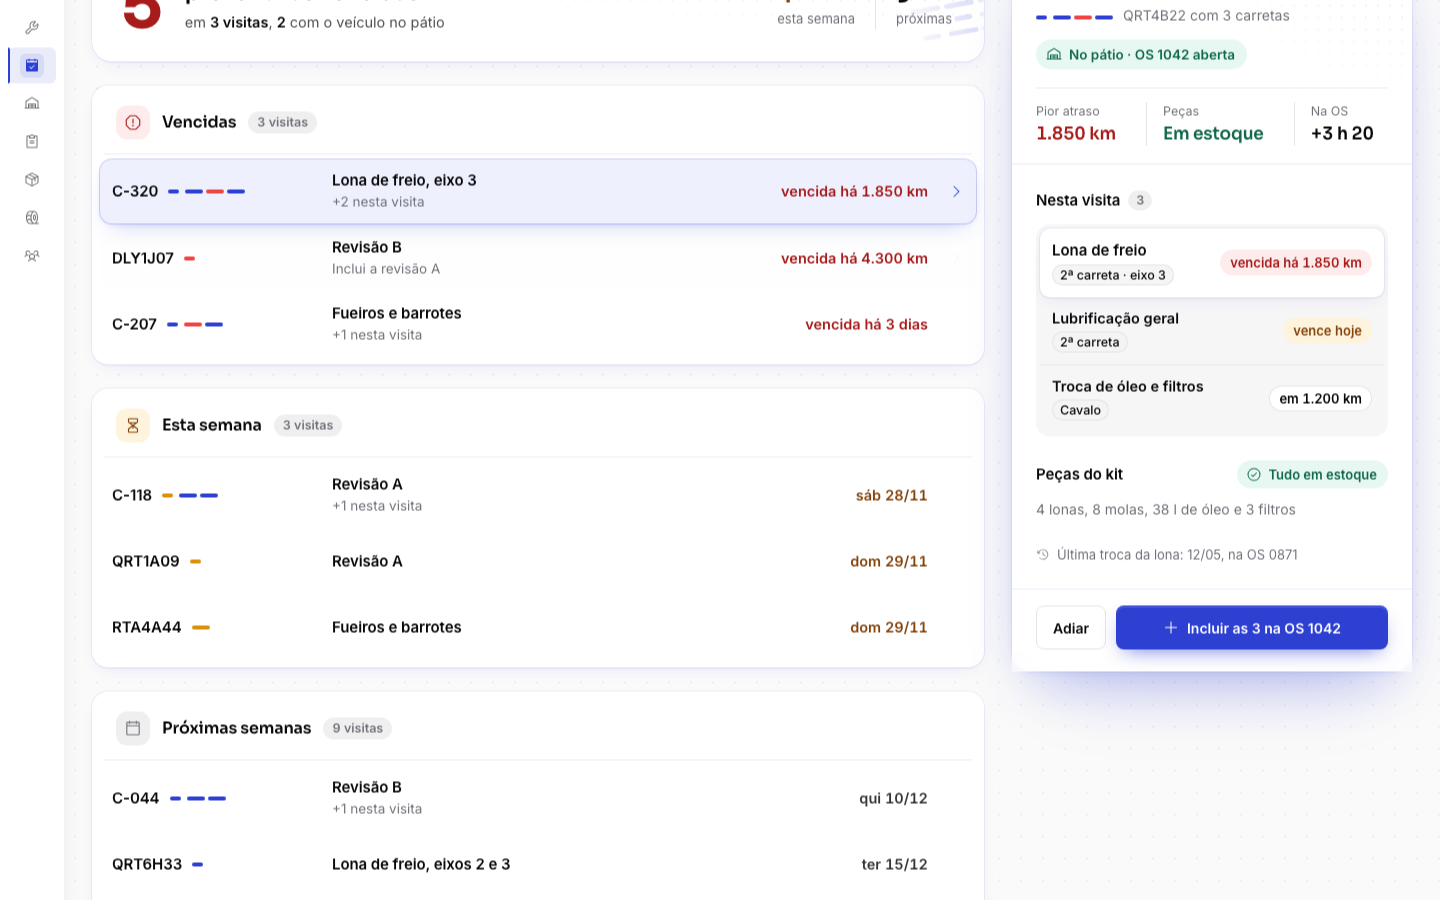
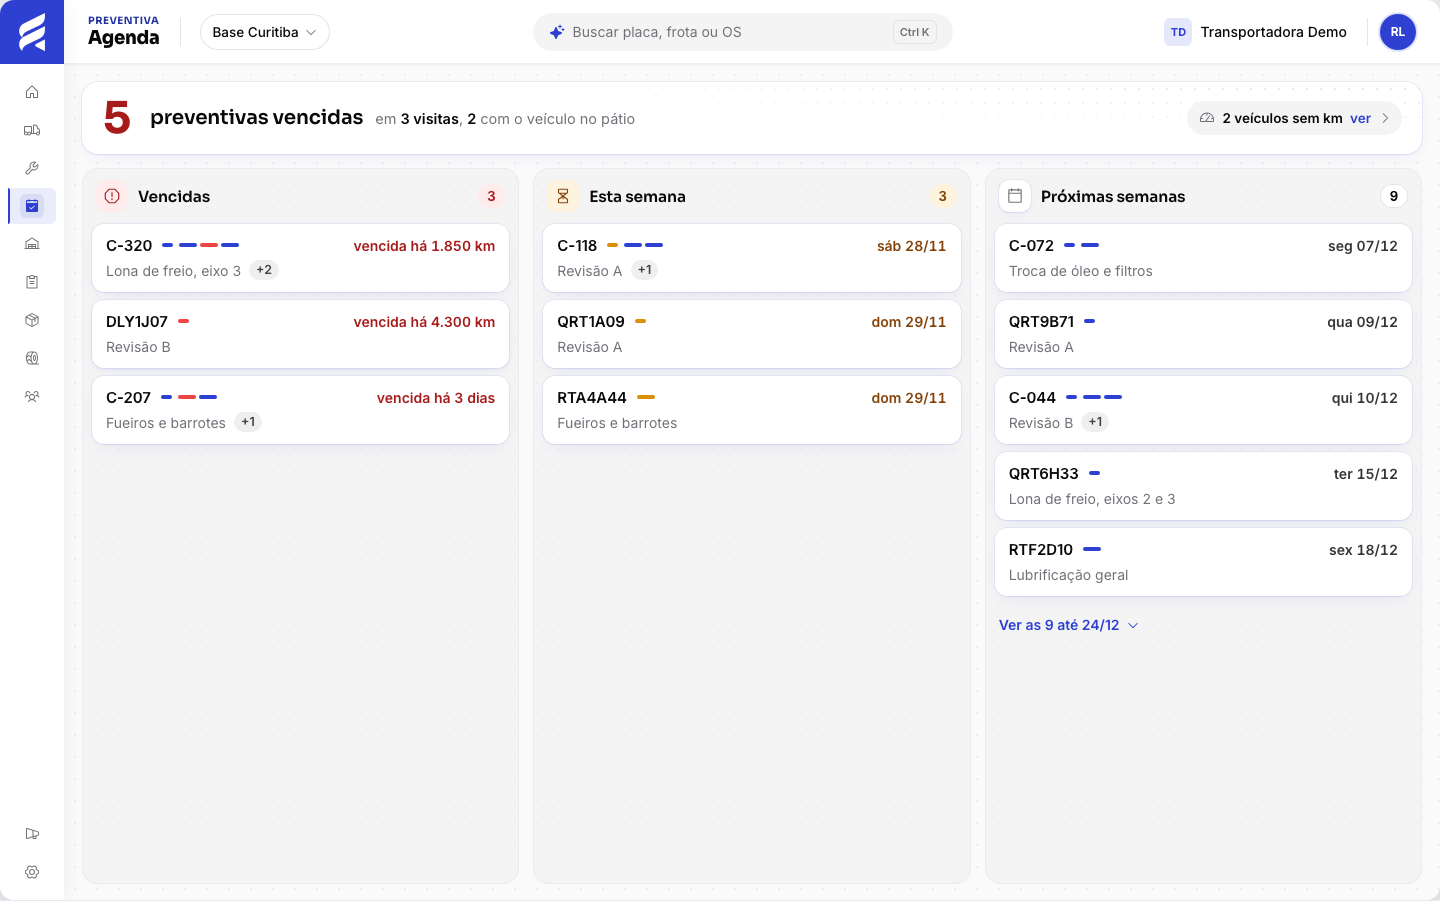
docs(truck): agenda as a three-column week board with the visit in a drawer

diff --git a/static/mockups/truck/preventiva-agenda/agenda.js b/static/mockups/truck/preventiva-agenda/agenda.js
@@ -17,6 +17,8 @@ const V={
   c118:{name:'C-118',parts:[['QRT7C10','cav','w'],['RTB2A41','car',''],['RTB2A42','car','']],svc:'Revisão A',more:'+1 nesta visita',when:'sáb 28/11',t:'w'},
   q1a:{name:'QRT1A09',parts:[['QRT1A09','cav','w']],svc:'Revisão A',more:'',when:'dom 29/11',t:'w'},
   rta:{name:'RTA4A44',parts:[['RTA4A44','car','w']],svc:'Fueiros e barrotes',more:'',when:'dom 29/11',t:'w'},
+  c072:{name:'C-072',parts:[['QRT5F80','cav',''],['RTG1H22','car','']],svc:'Troca de óleo e filtros',more:'',when:'seg 07/12',t:''},
+  q9b:{name:'QRT9B71',parts:[['QRT9B71','cav','']],svc:'Revisão A',more:'',when:'qua 09/12',t:''},
   c044:{name:'C-044',parts:[['QRT2E55','cav',''],['RTD8F12','car',''],['RTD8F13','car','']],svc:'Revisão B',more:'+1 nesta visita',when:'qui 10/12',t:''},
   q6h:{name:'QRT6H33',parts:[['QRT6H33','cav','']],svc:'Lona de freio, eixos 2 e 3',more:'',when:'ter 15/12',t:''},
   rtf:{name:'RTF2D10',parts:[['RTF2D10','car','']],svc:'Lubrificação geral',more:'',when:'sex 18/12',t:''},
@@ -26,7 +28,7 @@ const V={
 const GROUPS=[
   {k:'over',title:'Vencidas',count:'3 visitas',tone:'d',icon:'warning-octagon',ids:['c320','dly','c207']},
   {k:'week',title:'Esta semana',count:'3 visitas',tone:'w',icon:'hourglass-medium',ids:['c118','q1a','rta']},
-  {k:'next',title:'Próximas semanas',count:'9 visitas',tone:'',icon:'calendar-blank',ids:['c044','q6h','rtf'],more:'Ver as 9 visitas até 24/12'},
+  {k:'next',title:'Próximas semanas',count:'9 visitas',tone:'',icon:'calendar-blank',ids:['c072','q9b','c044','q6h','rtf'],more:'Ver as 9 até 24/12'},
   {k:'nokm',title:'Sem km',count:'2 veículos',tone:'',icon:'gauge',ids:['srt','rtc']},
 ];
 
@@ -79,26 +81,40 @@ function nextPanel(){return `<aside class="pnl">${pHead(C044,{status:pill('n','r
   ${parts(1,'38 l de óleo, 4 filtros e graxa')}</div>
   <div class="pf"><div class="bb">${btn('Adiar',{variant:'outline'})}${btn('Agendar visita',{icon:'calendar-check',action:1})}</div></div></aside>`;}
 
-/* ---------- notebook ---------- */
+/* ---------- board: the three columns side by side, the whole week at once ---------- */
+const pillMore=v=>/^\+\d/.test(v.more)?`<span class="pill">${v.more.split(' ')[0]}</span>`:'';
+function card(id,sel){const v=V[id];return `<div class="cd ${sel===id?'on':''}" role="button" tabindex="0"><div class="l1"><b>${v.name}</b>${mark(v.parts)}<span class="when ${v.t}">${v.when}</span></div><div class="l2"><span>${v.svc}</span>${pillMore(v)}</div></div>`;}
+const colHead=g=>`<header class="ch"><span class="gt ${g.tone}">${ic(g.icon,'s16')}</span><h3>${g.title}</h3><span class="gc ${g.count.startsWith('0')?'':g.tone}">${g.count.split(' ')[0]}</span></header>`;
+function column(g,sel,empty){
+  return `<section class="cl">${colHead(empty?{...g,count:'0'}:g)}<div class="cards">${empty?`<div class="cempty">${ic('check-circle','s20')}<span>${empty}</span></div>`:g.ids.map(id=>card(id,sel)).join('')}${!empty&&g.more?`<div class="more">${g.more}${ic('caret-down','s14')}</div>`:''}</div></section>`;}
+const nokm=()=>`<span class="nokm">${ic('gauge','s16')}<b>2 veículos sem km</b><span>ver</span>${ic('caret-right','s14')}</span>`;
+const slim=(o={})=>o.empty
+  ?`<div class="hero slim"><span class="halo sm">${ic('calendar-check','s20')}</span><div class="tx"><h2>Frota em dia esta semana</h2><p>Nenhuma preventiva vencida. A próxima é a revisão B do C-044, na qui 10/12.</p></div>${nokm()}</div>`
+  :`<div class="hero slim"><span class="big">5</span><div class="tx"><h2>preventivas vencidas</h2><p>em <b>3 visitas</b>, <b>2</b> com o veículo no pátio</p></div>${nokm()}</div>`;
+function drawer(inner){return `<div class="scrim"></div><aside class="pnl drawer">${inner}</aside>`;}
+function skBoard(){
+  const c=()=>`<div class="cd sk-cd"><span class="sk" style="width:55%;height:15px"></span><span class="sk" style="width:80%;height:12px;margin-top:10px"></span></div>`;
+  const col=n=>`<section class="cl"><header class="ch"><span class="sk" style="width:34px;height:34px;border-radius:11px"></span><span class="sk" style="width:110px;height:16px"></span></header><div class="cards">${Array.from({length:n},c).join('')}</div></section>`;
+  return `<div class="bd"><div class="hero slim"><span class="sk" style="width:48px;height:44px;border-radius:12px"></span><div class="tx" style="display:flex;flex-direction:column;gap:8px"><span class="sk" style="width:260px;height:18px"></span><span class="sk" style="width:200px;height:13px"></span></div></div><div class="cols">${col(3)}${col(3)}${col(4)}</div></div>`;
+}
 function web(s,dev){
   const small=dev==='webs';
-  if(s==='loading') return `<div class="ag ${small?'s':''}"><div class="col">${skList()}</div><aside class="pnl"><div class="phd" style="padding:24px"><span class="sk" style="width:60%;height:22px"></span></div><div class="pb">${[1,2,3,4].map(()=>'<span class="sk" style="width:100%;height:44px"></span>').join('')}</div></aside></div>`;
-  if(s==='empty') return `<div class="ag ${small?'s':''}"><div class="col"><div class="allgood"><span class="halo">${ic('calendar-check','s24')}</span><div><b>Frota em dia esta semana</b><p>Nenhuma preventiva vencida. A próxima é a revisão B do C-044, na qui 10/12, e dá para agendar com folga.</p></div></div>${group(GROUPS[2],'c044')}${group(GROUPS[3],null)}</div>${nextPanel()}</div>`;
-  const sel=s==='schedule'?'dly':'c320';
-  const panel=s==='schedule'
-    ?`<aside class="pnl">${pHead(V.dly,HDLY)}<div class="pb">${scheduleBody()}</div>${scheduleFoot()}</aside>`
-    :`<aside class="pnl">${pHead(V.c320,H320)}<div class="pb">${visitBody()}</div>${visitFoot()}</aside>`;
-  return `<div class="ag ${small?'s':''}"><div class="col">${head({})}${GROUPS.map(g=>group(g,sel)).join('')}</div>${panel}</div>`;
+  if(s==='loading') return skBoard();
+  const [over,week,next]=GROUPS;
+  if(s==='empty') return `<div class="bd ${small?'s':''}">${slim({empty:1})}<div class="cols">${column(over,null,'Nada vencido')}${column(week,null,'Nada vence esta semana')}${column({...next,count:'9 visitas'},null)}</div></div>`;
+  const sel=s==='schedule'?'dly':s==='visit'?'c320':null;
+  const dr=s==='schedule'?drawer(`${pHead(V.dly,HDLY)}<div class="pb">${scheduleBody()}</div>${scheduleFoot()}`)
+    :s==='visit'?drawer(`${pHead(V.c320,H320)}<div class="pb">${visitBody()}</div>${visitFoot()}`):'';
+  return `<div class="bd ${small?'s':''}">${slim()}<div class="cols">${column(over,sel)}${column(week,sel)}${column(next,sel)}</div>${dr}</div>`;
 }
 
-/* ---------- phone ---------- */
-function mrow(id,sel){const v=V[id];return `<div class="mr ${sel===id?'on':''}"><div class="l1"><b>${v.name}</b>${mark(v.parts)}<span class="when ${v.t}">${v.when}</span></div><div class="l2"><span>${v.svc}</span>${/^\+\d/.test(v.more)?`<span class="pill">${v.more.split(' ')[0]}</span>`:''}</div></div>`;}
-function mgroup(g,sel){return `<section class="grp"><header><span class="gt ${g.tone}">${ic(g.icon,'s16')}</span><h3>${g.title}</h3><span class="gc">${g.count}</span></header>${g.ids.map(id=>mrow(id,sel)).join('')}${g.more?`<div class="more">${g.more}${ic('caret-down','s14')}</div>`:''}</section>`;}
+/* ---------- phone: sticky tabs, one list at a time; the overdue count stays in the first tab ---------- */
+const tabs=on=>`<div class="seg3" role="tablist">${[['over','Vencidas','3','d'],['week','Semana','3','w'],['next','Próximas','9','']].map(([k,l,n,t])=>`<span class="${k===on?'on':''}" role="tab">${l}<b class="${t}">${n}</b></span>`).join('')}</div>`;
 function phone(s){
-  if(s==='loading') return `<div class="ph-wrap">${skList(1)}</div>`;
-  if(s==='empty') return `<div class="ph-wrap"><div class="allgood" style="flex-direction:column;text-align:center;padding:28px 20px"><span class="halo">${ic('calendar-check','s24')}</span><div><b>Frota em dia esta semana</b><p>Nenhuma preventiva vencida. A próxima é a revisão B do C-044, na qui 10/12.</p></div></div>${mgroup(GROUPS[2],null)}</div>`;
+  if(s==='loading') return `<div class="ph-wrap"><div class="hero slim"><span class="sk" style="width:40px;height:40px;border-radius:12px"></span><span class="sk" style="width:200px;height:18px"></span></div><span class="sk" style="width:100%;height:44px;border-radius:12px"></span>${[1,2,3,4].map(()=>`<div class="cd sk-cd"><span class="sk" style="width:55%;height:15px"></span><span class="sk" style="width:80%;height:12px;margin-top:10px"></span></div>`).join('')}</div>`;
+  if(s==='empty') return `<div class="ph-wrap"><div class="hero slim"><span class="halo sm">${ic('calendar-check','s20')}</span><div class="tx"><h2>Frota em dia esta semana</h2><p>A próxima é a revisão B do C-044, na qui 10/12.</p></div></div><div class="stick">${tabs('next').replace('<b class="d">3</b>','<b>0</b>').replace('<b class="w">3</b>','<b>0</b>')}</div><div class="cards">${GROUPS[2].ids.map(id=>card(id,null)).join('')}<div class="more">${GROUPS[2].more}${ic('caret-down','s14')}</div></div></div>`;
   const sel=s==='list'?null:s==='schedule'?'dly':'c320';
-  const list=`<div class="ph-wrap">${head({phone:1})}${search()}${GROUPS.map(g=>mgroup(g,sel)).join('')}</div>`;
+  const list=`<div class="ph-wrap"><div class="hero slim"><span class="big">5</span><div class="tx"><h2>preventivas vencidas</h2><p>em <b>3 visitas</b>, <b>2</b> no pátio</p></div></div><div class="stick">${tabs('over')}</div><div class="cards">${GROUPS[0].ids.map(id=>card(id,sel)).join('')}</div>${nokm()}</div>`;
   if(s==='list') return list;
   const sheet=s==='schedule'
     ?`<div class="sheet-ov"><div class="sheet">${pHead(V.dly,{...HDLY,phone:1})}<div class="sb">${scheduleBody()}</div>${scheduleFoot()}</div></div>`

diff --git a/static/mockups/truck/preventiva-agenda/agenda.css b/static/mockups/truck/preventiva-agenda/agenda.css
@@ -354,3 +354,70 @@
 .phd .xb:hover{background:hsl(var(--accent));color:hsl(var(--accent-foreground))}
 .sheet .phd,.sheet .pf{flex:none}
 .sheet .sb{min-height:0;flex:1 1 auto}
+
+/* =====================================================================
+   Board: three columns side by side so the whole week fits one screen;
+   the visit opens as a drawer over the board.
+   ===================================================================== */
+.fx-body.calm>[data-render]{height:100%}
+.bd{position:relative;height:100%;display:flex;flex-direction:column;gap:14px;padding:6px 6px 4px}
+.hero.slim{flex:none;display:flex;align-items:center;gap:16px;min-height:72px;padding:12px 20px;border-radius:16px}
+.hero.slim .big{font-size:44px;line-height:1}
+.hero.slim .tx{flex:1;min-width:0;display:flex;align-items:baseline;gap:12px;flex-wrap:wrap}
+.hero.slim .tx h2{font-size:20px;white-space:nowrap}
+.hero.slim .tx p{margin:0;font-size:14.5px;color:hsl(var(--muted-foreground))}
+.hero.slim .tx p b{color:hsl(var(--foreground));font-weight:600}
+.halo.sm{display:grid;place-items:center;width:44px;height:44px;border-radius:99px;background:hsl(var(--success-soft));color:hsl(var(--success-ink));flex:none}
+.nokm{display:inline-flex;align-items:center;gap:7px;flex:none;height:34px;padding:0 10px 0 12px;border-radius:999px;background:hsl(var(--secondary));font-size:13.5px;color:hsl(var(--secondary-foreground));white-space:nowrap;position:relative}
+.nokm b{font-weight:600}.nokm>span{color:hsl(var(--primary));font-weight:600}.nokm .ic{color:hsl(var(--muted-foreground))}
+.cols{flex:1;min-height:0;display:grid;grid-template-columns:repeat(3,minmax(0,1fr));gap:14px}
+.cl{min-height:0;display:flex;flex-direction:column;border-radius:16px;background:hsl(var(--muted)/.55);box-shadow:inset 0 0 0 1px hsl(var(--border)/.6)}
+.ch{flex:none;display:flex;align-items:center;gap:10px;padding:12px 14px 10px}
+.ch h3{font:600 15.5px Sora;letter-spacing:-.01em}
+.ch .gt{width:32px;height:32px;border-radius:10px;background:hsl(var(--card));box-shadow:var(--e1)}
+.ch .gt.d{background:hsl(var(--danger-soft));box-shadow:none}.ch .gt.w{background:hsl(var(--warning-soft));box-shadow:none}
+.ch .gc{margin-left:auto;min-width:28px;text-align:center;padding:0 9px;border-radius:999px;background:hsl(var(--card));box-shadow:inset 0 0 0 1px hsl(var(--border));font:700 13px/24px Inter;font-variant-numeric:tabular-nums;color:hsl(var(--foreground))}
+.ch .gc.d{background:hsl(var(--danger-soft));box-shadow:none;color:hsl(var(--danger-ink))}
+.ch .gc.w{background:hsl(var(--warning-soft));box-shadow:none;color:hsl(var(--warning-ink))}
+.cards{flex:1;min-height:0;overflow:auto;display:flex;flex-direction:column;gap:8px;padding:2px 10px 12px}
+.cd{display:flex;flex-direction:column;justify-content:center;gap:5px;min-height:68px;padding:11px 14px;border-radius:12px;background:hsl(var(--card));box-shadow:var(--e1);cursor:pointer;transition:box-shadow .15s,transform .15s}
+.cd:hover{box-shadow:0 0 0 1px hsl(var(--border)),0 4px 14px -6px hsl(var(--foreground)/.18)}
+.cd:focus-visible{outline:none;box-shadow:0 0 0 2px hsl(var(--ring))}
+.cd.on{background:hsl(var(--primary-soft));box-shadow:var(--e2);transform:translateY(-1px)}
+.cd .l1{display:flex;align-items:center;gap:10px;min-width:0}
+.cd .l1 b{font:600 15px Inter;letter-spacing:-.005em;white-space:nowrap}
+.cd .when{margin-left:auto;font:600 14px Inter;font-variant-numeric:tabular-nums;white-space:nowrap;color:hsl(var(--foreground)/.82)}
+.cd .when.d{color:hsl(var(--danger-ink))}.cd .when.w{color:hsl(var(--warning-ink))}.cd .when.m{color:hsl(var(--muted-foreground));font-weight:500}
+.cd .l2{display:flex;align-items:center;gap:8px;min-width:0;font-size:14px;color:hsl(var(--muted-foreground))}
+.cd .l2>span:first-child{overflow:hidden;text-overflow:ellipsis;white-space:nowrap}
+.cd .pill{flex:none;padding:0 7px;border-radius:99px;background:hsl(var(--muted));font:600 12.5px/20px Inter;color:hsl(var(--foreground)/.75)}
+.cards .more{margin:2px 0 0;padding:8px 4px}
+.cempty{display:flex;flex-direction:column;align-items:center;gap:8px;padding:28px 12px;border-radius:12px;border:1px dashed hsl(var(--border));color:hsl(var(--success-ink));font-size:14px;text-align:center}
+.cempty span{color:hsl(var(--muted-foreground))}
+.sk-cd{cursor:default}
+.bd.s .hero.slim .tx p{display:none}
+.bd.s .cd .l1 b{font-size:14.5px}
+.bd.s .cd{padding:10px 12px}
+/* drawer over the board */
+.scrim{position:absolute;inset:-12px;background:hsl(var(--foreground)/.10);border-radius:0;z-index:4}
+.drawer{position:absolute;top:-6px;right:-6px;bottom:-8px;width:440px;z-index:5;display:flex;flex-direction:column;border-radius:20px 0 0 20px}
+.bd.s .drawer{width:400px}
+.drawer .pb{flex:1;min-height:0;overflow:auto}
+.drawer .phd,.drawer .pf{flex:none}
+.dark .scrim{background:hsl(var(--background)/.55)}
+/* phone */
+.ph-wrap .hero.slim{flex-wrap:nowrap;min-height:0;padding:14px 16px;gap:12px}
+.ph-wrap .hero.slim .big{font-size:40px}
+.ph-wrap .hero.slim .tx{display:block}
+.ph-wrap .hero.slim .tx h2{font-size:17px;white-space:normal}
+.ph-wrap .hero.slim .tx p{font-size:13.5px;margin-top:2px}
+.stick{position:sticky;top:-12px;z-index:3;margin:0 -16px;padding:8px 16px;background:hsl(var(--background)/.88);backdrop-filter:blur(8px);-webkit-backdrop-filter:blur(8px)}
+.seg3{display:grid;grid-template-columns:repeat(3,minmax(0,1fr));gap:3px;padding:3px;border-radius:12px;background:hsl(var(--muted))}
+.seg3 span{display:flex;align-items:center;justify-content:center;gap:6px;height:38px;border-radius:9px;font:600 14px Inter;color:hsl(var(--muted-foreground))}
+.seg3 span.on{background:hsl(var(--card));color:hsl(var(--foreground));box-shadow:var(--e1)}
+.seg3 b{padding:0 6px;border-radius:99px;font:700 12.5px/19px Inter;font-variant-numeric:tabular-nums;background:hsl(var(--card));color:hsl(var(--foreground))}
+.seg3 b.d{background:hsl(var(--danger-soft));color:hsl(var(--danger-ink))}
+.seg3 b.w{background:hsl(var(--warning-soft));color:hsl(var(--warning-ink))}
+.ph-wrap .cards{padding:0;overflow:visible;gap:10px}
+.ph-wrap .nokm{align-self:flex-start}
+.ph-wrap{padding:8px 4px 96px;gap:14px}

diff --git a/static/mockups/truck/preventiva-agenda/index.html b/static/mockups/truck/preventiva-agenda/index.html
@@ -15,15 +15,15 @@
   </div>
 
   <section class="sc" id="notebook"><h2><span class="tag">1</span>Notebook</h2>
-    <p class="why">De cima para baixo: <b>a frase do resumo</b>, os grupos por quando e as linhas. Cada grupo é uma superfície própria com espaço entre elas; só o grupo leva cor, no ícone. Vermelho só no número vencido, âmbar só na data desta semana, azul só na ação principal, na seleção e nos links.</p>
-    <div class="states" data-for="ag"><button data-s="visit" aria-pressed="true">Visita no pátio escolhida</button><button data-s="schedule" aria-pressed="false">Agendar visita</button><button data-s="empty" aria-pressed="false">Nada vencendo</button><button data-s="loading" aria-pressed="false">Carregando</button></div>
+    <p class="why"><b>A semana inteira numa tela, sem rolar</b>: vencidas, esta semana e próximas semanas lado a lado, cada coluna com a contagem no cabeçalho. O resumo virou uma linha. Escolher um cartão abre a <b>gaveta da visita</b> por cima do quadro; fechar (ou Esc) volta. Vermelho só no vencido, âmbar só nesta semana, azul na ação e na seleção. No tablet em pé e no celular, as colunas viram abas.</p>
+    <div class="states" data-for="ag"><button data-s="board" aria-pressed="true">Quadro da semana</button><button data-s="visit" aria-pressed="false">Visita no pátio aberta</button><button data-s="schedule" aria-pressed="false">Agendar visita</button><button data-s="empty" aria-pressed="false">Nada vencendo</button><button data-s="loading" aria-pressed="false">Carregando</button></div>
     <div class="themebar"><button data-t="light" aria-pressed="true">Tema claro</button><button data-t="dark" aria-pressed="false">Tema escuro</button></div>
-    <div class="devices"><div class="dv full"><div class="devlabel">Notebook · 1440</div><fx-app device="web" section="plan" console eyebrow="Preventiva" title="Agenda" controls="&lt;span class=&quot;sel&quot;&gt;Base Curitiba&lt;/span&gt;" width="1440" height="1180"><div data-render="ag" data-device="web"></div></fx-app></div></div>
-    <div class="devices"><div class="dv full"><div class="devlabel">Notebook · 1180</div><fx-app device="web" section="plan" console eyebrow="Preventiva" title="Agenda" controls="&lt;span class=&quot;sel&quot;&gt;Base Curitiba&lt;/span&gt;" width="1180" height="1180"><div data-render="ag" data-device="webs"></div></fx-app></div></div>
+    <div class="devices"><div class="dv full"><div class="devlabel">Notebook · 1440 × 900</div><fx-app device="web" section="plan" console eyebrow="Preventiva" title="Agenda" controls="&lt;span class=&quot;sel&quot;&gt;Base Curitiba&lt;/span&gt;" width="1440" height="900"><div data-render="ag" data-device="web"></div></fx-app></div></div>
+    <div class="devices"><div class="dv full"><div class="devlabel">Notebook · 1180 × 800</div><fx-app device="web" section="plan" console eyebrow="Preventiva" title="Agenda" controls="&lt;span class=&quot;sel&quot;&gt;Base Curitiba&lt;/span&gt;" width="1180" height="800"><div data-render="ag" data-device="webs"></div></fx-app></div></div>
   </section>
 
   <section class="sc" id="celular"><h2><span class="tag">2</span>Celular</h2>
-    <p class="why">Os mesmos grupos em cartões, com as mesmas três coisas por linha. Tocar abre a <b>folha de baixo</b> com a visita inteira e a ação fixa no pé, ao alcance do polegar.</p>
+    <p class="why">Abas fixas no topo, uma lista por vez: <b>Vencidas 3 · Semana 3 · Próximas 9</b>. A contagem das vencidas fica sempre à vista. Tocar no cartão abre a <b>folha de baixo</b> com a visita e a ação fixa no pé.</p>
     <div class="states" data-for="phs"><button data-s="visit" aria-pressed="true">Visita aberta</button><button data-s="schedule" aria-pressed="false">Agendar visita</button><button data-s="empty" aria-pressed="false">Nada vencendo</button><button data-s="loading" aria-pressed="false">Carregando</button></div>
     <div class="themebar"><button data-t="light" aria-pressed="true">Tema claro</button><button data-t="dark" aria-pressed="false">Tema escuro</button></div>
     <div class="devices">
@@ -45,10 +45,10 @@
       <div class="box"><h3>Antes e agora</h3><table class="cmp"><thead><tr><th></th><th>Direção A e B</th><th>Agora</th></tr></thead><tbody>
         <tr><td>Dados por linha</td><td>8 a 11</td><td>3 (quem, o quê, quando)</td></tr>
         <tr><td>Cores de estado na lista</td><td>5, mais azul-marinho e preto inventados</td><td>2 tons: vencida e esta semana</td></tr>
-        <tr><td>Sistemas visuais na tela</td><td>5 a 6</td><td>3: resumo, grupos, painel</td></tr>
+        <tr><td>Sistemas visuais na tela</td><td>5 a 6</td><td>3: resumo, colunas, gaveta</td></tr>
         <tr><td>Menor texto</td><td>11 px, em caixa alta</td><td>12,5 px; secundário em 13,5 px</td></tr>
-        <tr><td>Altura da linha</td><td>48 px</td><td>64 px</td></tr>
-        <tr><td>Entre grupos</td><td>1 linha de 1 px</td><td>28 px e uma superfície por grupo</td></tr>
+        <tr><td>Ver a semana</td><td>rolar além das vencidas</td><td>3 colunas lado a lado, tudo na primeira tela</td></tr>
+        <tr><td>Entre grupos</td><td>1 linha de 1 px</td><td>uma coluna com fundo próprio por grupo</td></tr>
         <tr><td>Profundidade</td><td>tudo no mesmo plano</td><td>4 camadas: fundo, grupo, linha escolhida, painel</td></tr>
         <tr><td>Desenho do conjunto</td><td>caminhão com rodas e sinais</td><td>um traço por veículo</td></tr>
       </tbody></table></div>
